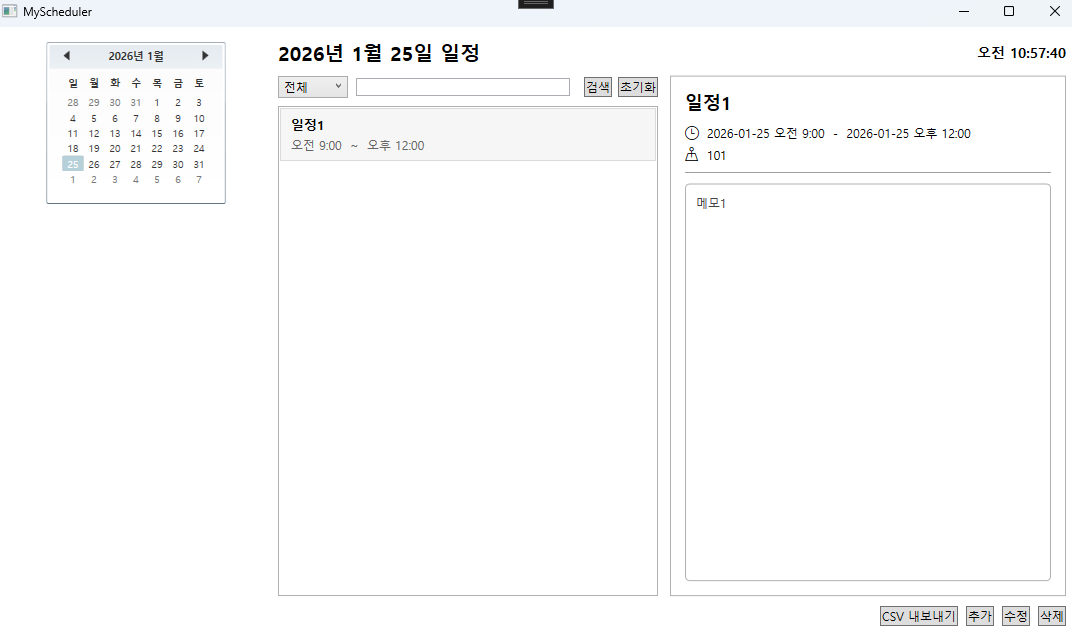
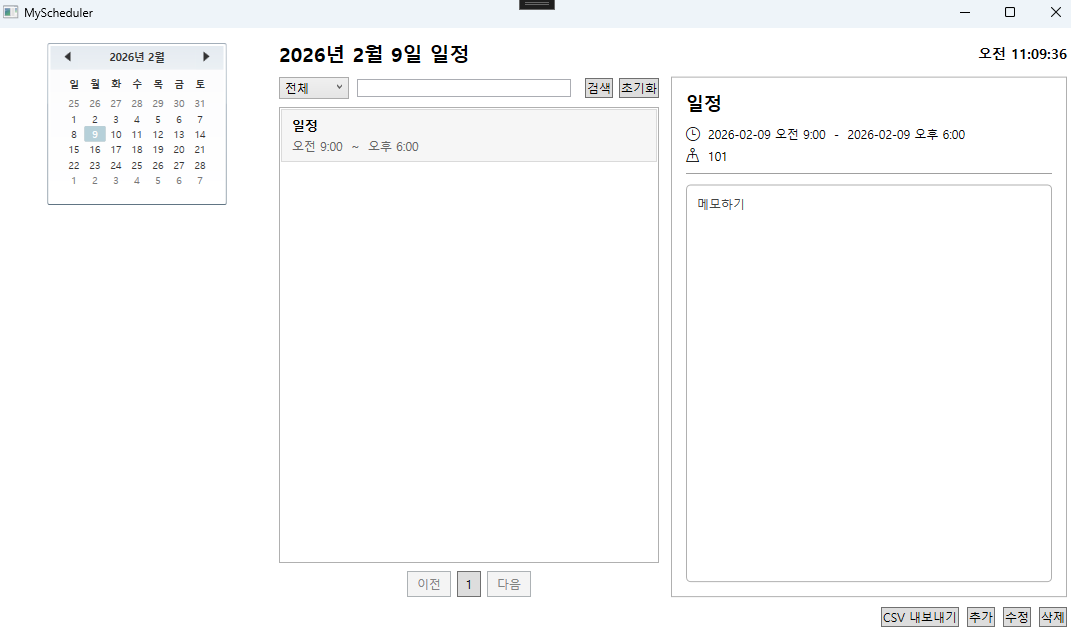
feat: 일정 목록 페이징(10개 단위) 및 페이지 번호 UI 적용

diff --git a/MainWindow.xaml b/MainWindow.xaml
@@ -64,6 +64,7 @@
                         <Grid.RowDefinitions>
                             <RowDefinition Height="Auto"/>
                             <RowDefinition Height="*"/>
+                            <RowDefinition Height="Auto"/>
                         </Grid.RowDefinitions>
 
                         <DockPanel LastChildFill="True" Grid.Row="0" Margin="0,0,0,8">
@@ -93,7 +94,7 @@
                         </DockPanel>
 
                         <ListBox Grid.Row="1"
-                                 ItemsSource="{Binding SchedulesView}"
+                                 ItemsSource="{Binding PagedSchedules}"
                                  SelectedItem="{Binding SelectedSchedule}"
                                  BorderThickness="1"
                                  BorderBrush="#B0B0B0"
@@ -125,6 +126,45 @@
                                 </DataTemplate>
                             </ListBox.ItemTemplate>
                         </ListBox>
+
+                        <StackPanel Grid.Row="2"
+                                    Orientation="Horizontal"
+                                    HorizontalAlignment="Center"
+                                    Margin="0,8,0,0">
+                            <Button Content="이전"
+                                    Command="{Binding PrevPageCommand}"
+                                    IsEnabled="{Binding HasPrevPage}"
+                                    MinWidth="44"
+                                    Height="26"
+                                    Padding="6,0"
+                                    Margin="0,0,6,0"/>
+
+                            <ItemsControl ItemsSource="{Binding PageNumbers}">
+                                <ItemsControl.ItemsPanel>
+                                    <ItemsPanelTemplate>
+                                        <StackPanel Orientation="Horizontal"/>
+                                    </ItemsPanelTemplate>
+                                </ItemsControl.ItemsPanel>
+                                <ItemsControl.ItemTemplate>
+                                    <DataTemplate>
+                                        <Button Content="{Binding}"
+                                                Command="{Binding DataContext.GoToPageCommand, RelativeSource={RelativeSource AncestorType=ItemsControl}}"
+                                                CommandParameter="{Binding}"
+                                                MinWidth="24"
+                                                Height="26"
+                                                Padding="5,0"
+                                                Margin="0,0,6,0"/>
+                                    </DataTemplate>
+                                </ItemsControl.ItemTemplate>
+                            </ItemsControl>
+
+                            <Button Content="다음"
+                                    Command="{Binding NextPageCommand}"
+                                    IsEnabled="{Binding HasNextPage}"
+                                    MinWidth="44"
+                                    Height="26"
+                                    Padding="6,0"/>
+                        </StackPanel>
                     </Grid>
 
                     <Grid Grid.Column="1" Margin="12,0,0,0">

diff --git a/ViewModels/MainViewModel.cs b/ViewModels/MainViewModel.cs
@@ -39,6 +39,7 @@ public partial class MainViewModel : ObservableObject
     }
 
     public ObservableCollection<ScheduleListItem> Schedules { get; } = new();
+    public ObservableCollection<ScheduleListItem> PagedSchedules { get; } = new();
     public ICollectionView SchedulesView { get; }
 
     public ObservableCollection<string> SearchScopes { get; } =
@@ -172,6 +173,26 @@ public partial class MainViewModel : ObservableObject
     private CancellationTokenSource? _listCts;
     private CancellationTokenSource? _detailCts;
 
+    private const int PageSize = 10;
+    private int _currentPage = 1;
+    public int CurrentPage
+    {
+        get => _currentPage;
+        private set => SetProperty(ref _currentPage, value);
+    }
+
+    private int _totalPages = 1;
+    public int TotalPages
+    {
+        get => _totalPages;
+        private set => SetProperty(ref _totalPages, value);
+    }
+
+    public bool HasPrevPage => CurrentPage > 1;
+    public bool HasNextPage => CurrentPage < TotalPages;
+
+    public ObservableCollection<int> PageNumbers { get; } = new();
+
     private bool CanEditOrDelete()
         => !IsBusy && !IsLoadingList && !IsLoadingDetail && SelectedScheduleDetail is not null;
 
@@ -198,12 +219,14 @@ public partial class MainViewModel : ObservableObject
             SelectedSchedule = null;
             SelectedScheduleDetail = null;
         }
+
+        UpdatePaging();
     }
 
     [RelayCommand]
     private void ApplySearch()
     {
-        SchedulesView.Refresh();
+        RefreshSchedulesView();
         ExportCsvCommand.NotifyCanExecuteChanged();
     }
 
@@ -244,7 +267,7 @@ public partial class MainViewModel : ObservableObject
             if (prevId is not null)
             {
                 var restored = Schedules.FirstOrDefault(x => x.Id == prevId);
-                if (restored is not null)
+                if (restored is not null && PagedSchedules.Contains(restored))
                     SelectedSchedule = restored;
             }
         }
@@ -566,4 +589,93 @@ public partial class MainViewModel : ObservableObject
     }
 
     public void StopClock() => _clockTimer.Stop();
+
+    [RelayCommand(CanExecute = nameof(HasPrevPage))]
+    private void PrevPage()
+    {
+        if (CurrentPage <= 1) return;
+        CurrentPage -= 1;
+        UpdatePaging();
+    }
+
+    [RelayCommand(CanExecute = nameof(HasNextPage))]
+    private void NextPage()
+    {
+        if (CurrentPage >= TotalPages) return;
+        CurrentPage += 1;
+        UpdatePaging();
+    }
+
+    [RelayCommand]
+    private void GoToPage(int page)
+    {
+        if (page < 1 || page > TotalPages) return;
+        if (CurrentPage == page) return;
+        CurrentPage = page;
+        UpdatePaging();
+    }
+
+    private void UpdatePaging()
+    {
+        var all = SchedulesView.Cast<object>()
+            .OfType<ScheduleListItem>()
+            .ToList();
+
+        var totalCount = all.Count;
+        TotalPages = Math.Max(1, (int)Math.Ceiling(totalCount / (double)PageSize));
+
+        if (CurrentPage > TotalPages) CurrentPage = TotalPages;
+        if (CurrentPage < 1) CurrentPage = 1;
+
+        var pageItems = all
+            .Skip((CurrentPage - 1) * PageSize)
+            .Take(PageSize)
+            .ToList();
+
+        PagedSchedules.Clear();
+        foreach (var item in pageItems)
+            PagedSchedules.Add(item);
+
+        if (SelectedSchedule is not null &&
+            !pageItems.Contains(SelectedSchedule))
+        {
+            SelectedSchedule = null;
+            SelectedScheduleDetail = null;
+        }
+
+        UpdatePageNumbers();
+
+        OnPropertyChanged(nameof(HasPrevPage));
+        OnPropertyChanged(nameof(HasNextPage));
+        PrevPageCommand.NotifyCanExecuteChanged();
+        NextPageCommand.NotifyCanExecuteChanged();
+    }
+
+    private void UpdatePageNumbers()
+    {
+        PageNumbers.Clear();
+        const int windowSize = 5;
+        if (TotalPages <= 0) return;
+
+        var half = windowSize / 2;
+        var start = CurrentPage - half;
+        var end = CurrentPage + half;
+
+        if (start < 1)
+        {
+            end += 1 - start;
+            start = 1;
+        }
+
+        if (end > TotalPages)
+        {
+            start -= end - TotalPages;
+            end = TotalPages;
+        }
+
+        if (start < 1) start = 1;
+
+        for (var i = start; i <= end && PageNumbers.Count < windowSize; i++)
+            PageNumbers.Add(i);
+    }
 }
